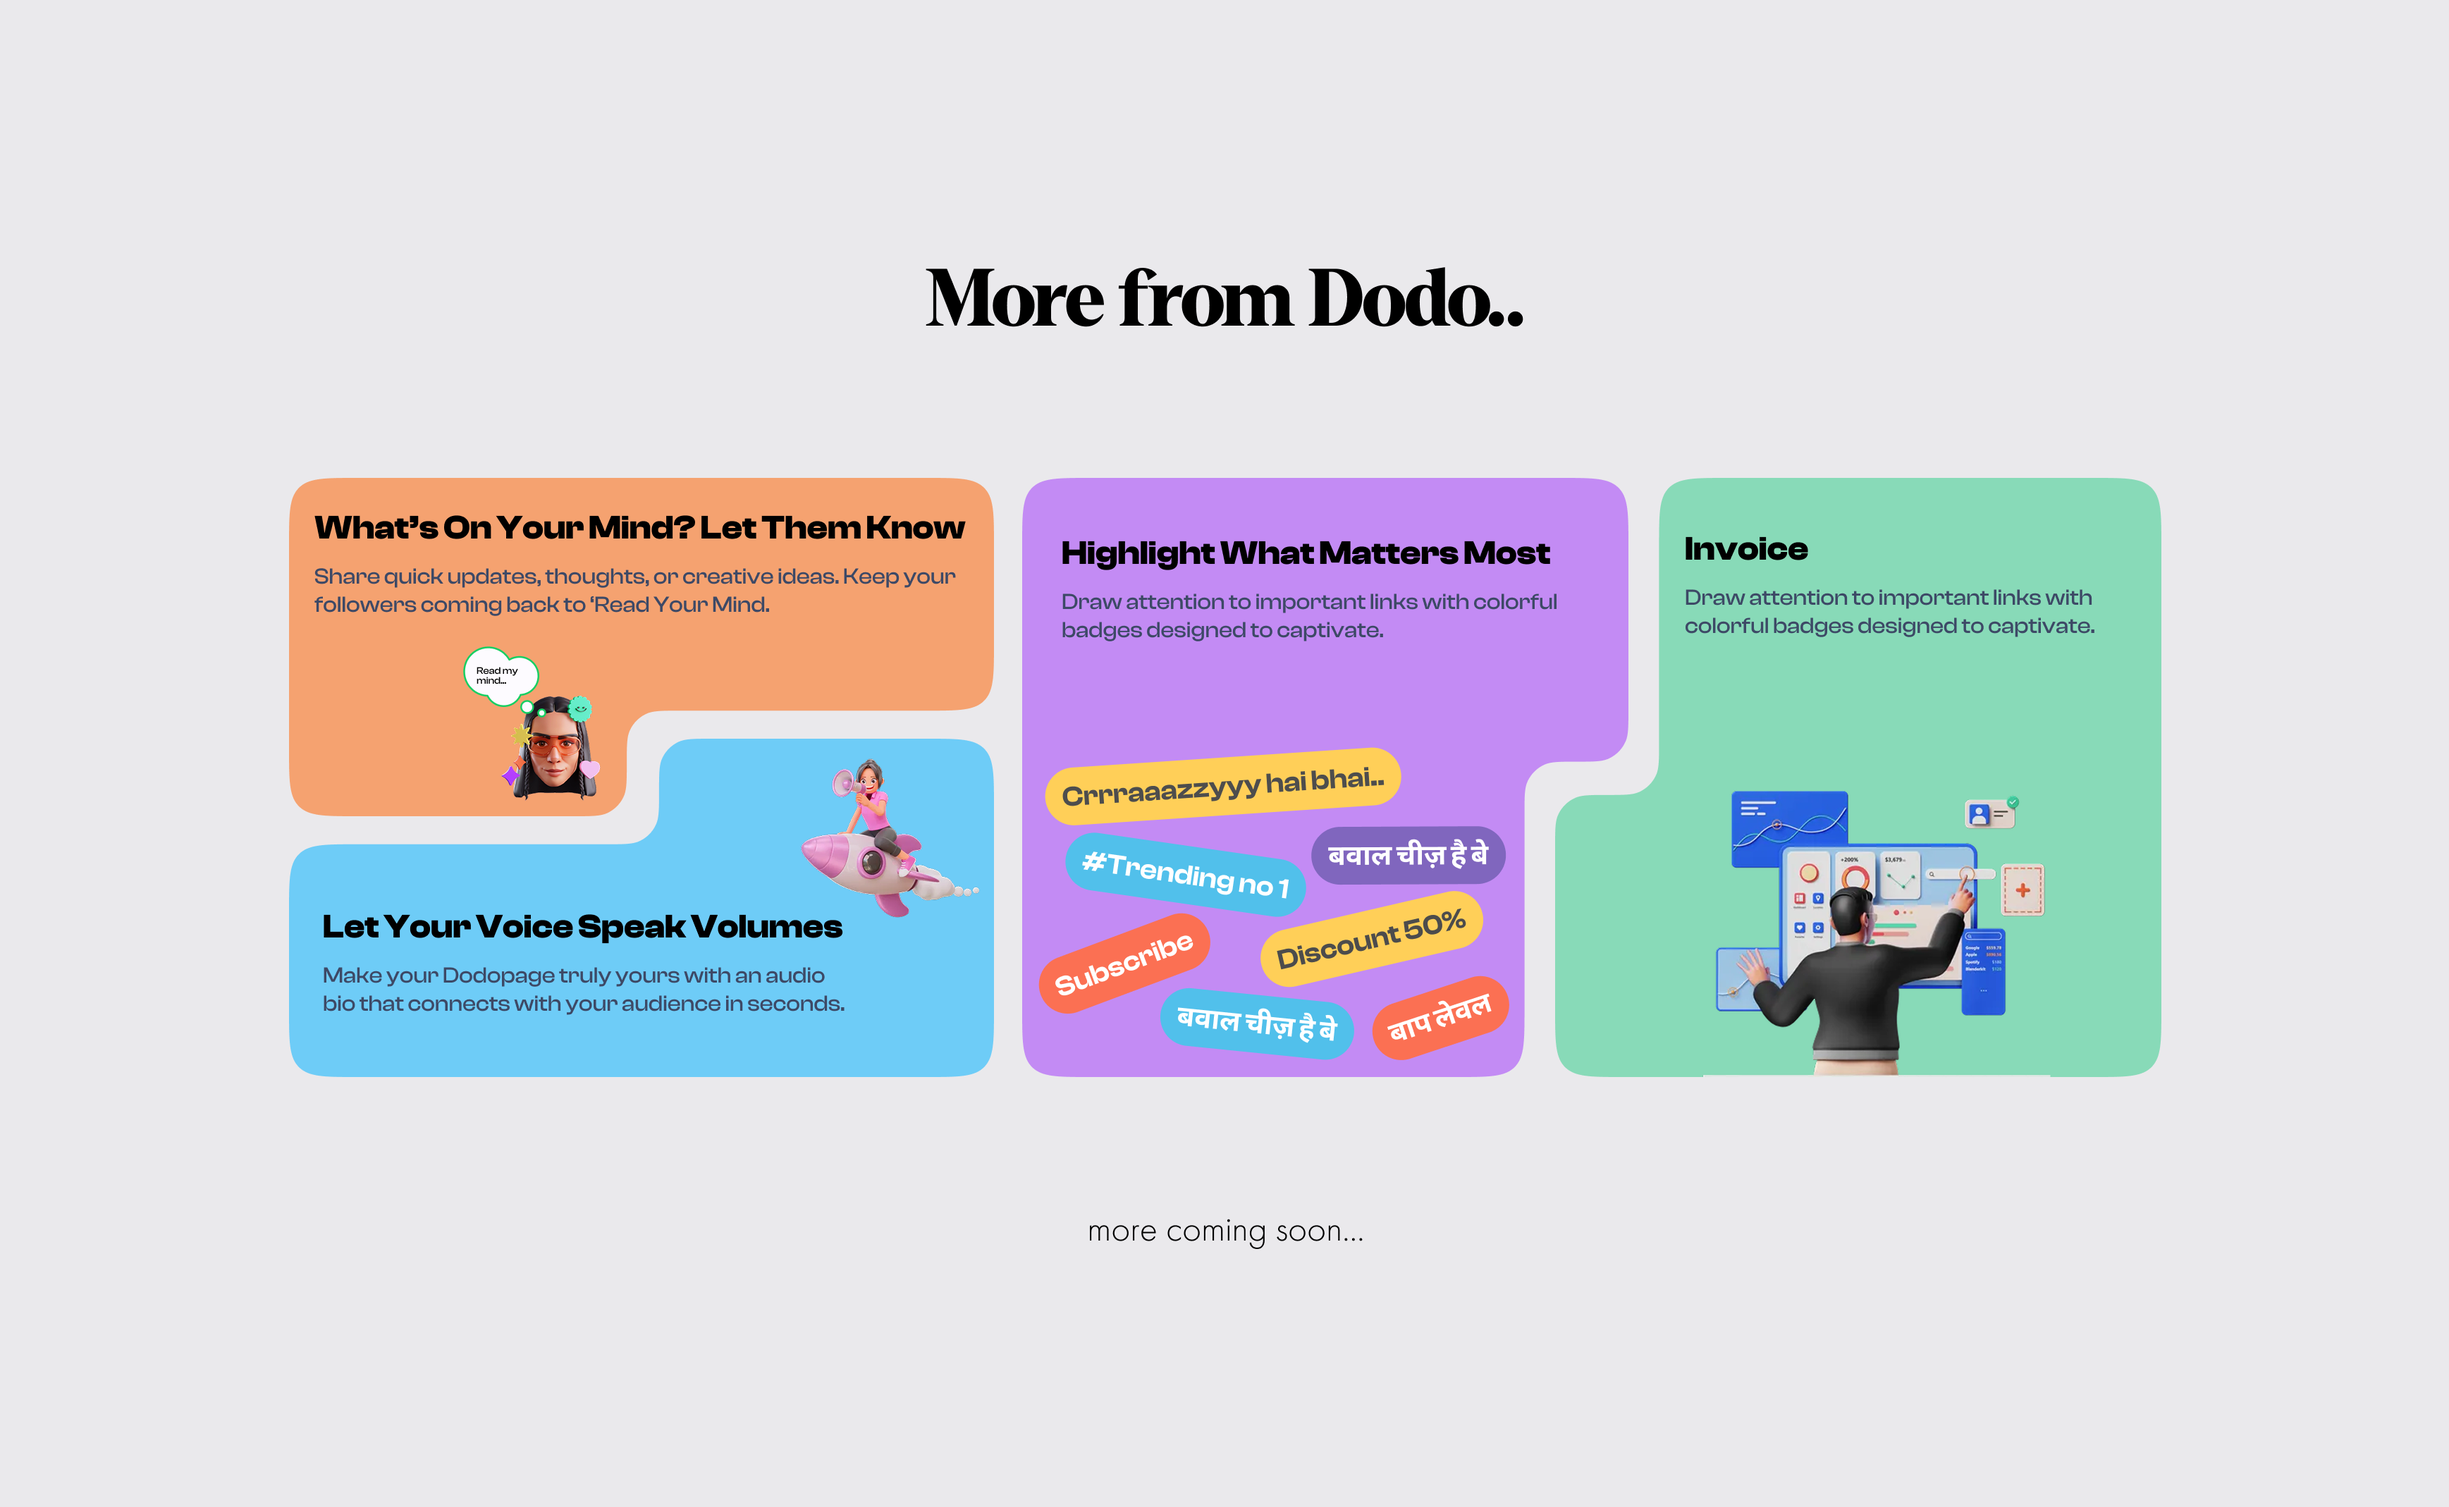
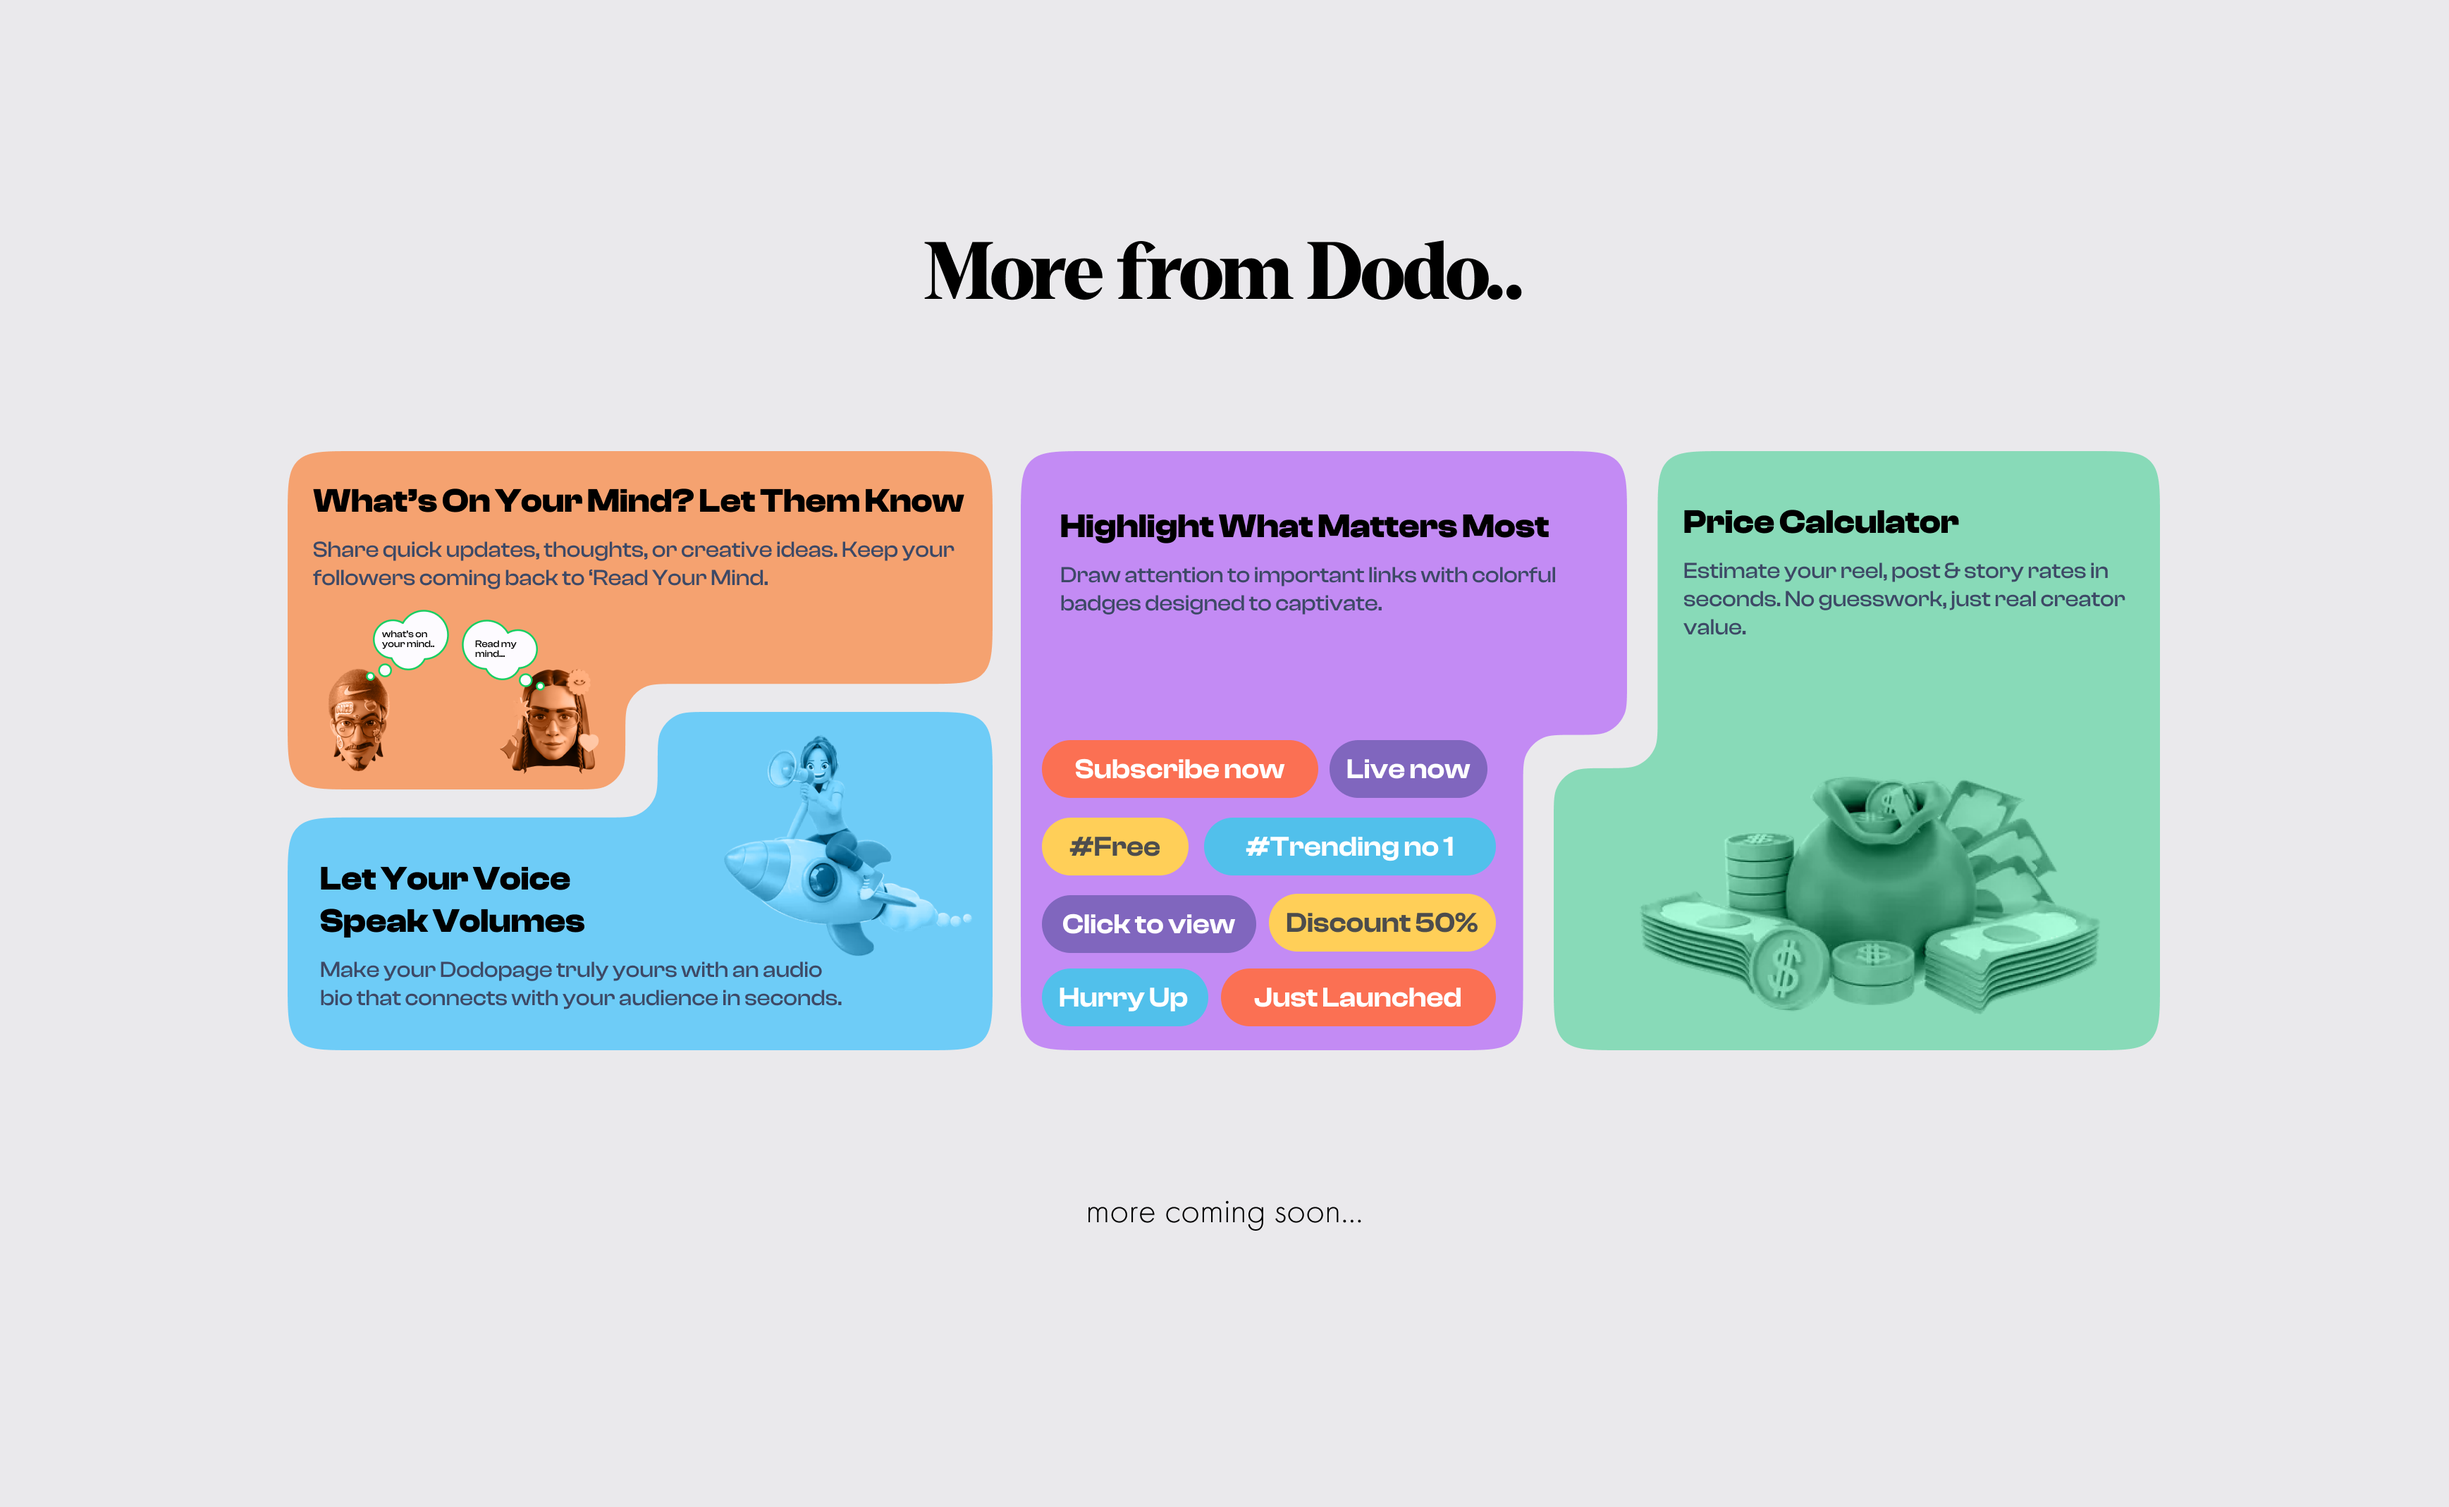
landing fix

Changed region(s): [[0.0933, 0.2778, 0.9016, 0.7409], [0.3731, 0.1543, 0.6218, 0.2161], [0.4352, 0.8026, 0.5596, 0.8335]]

diff --git a/app/for-brands/page.tsx b/app/for-brands/page.tsx
@@ -6,25 +6,30 @@ import styles from "./brands.module.css";
 import cx from "classnames";
 import NewButton from '@components/atoms/Button/NewButton';
 import { useRouter } from 'next/navigation';
+import ComingSoon from 'public/assets/comingSoon.png'
+import Image from 'next/image';
 
 const ForBrands = () => {
     const router = useRouter()
-    
+
     const handleNavigation = () => {
         router.push('/')
     }
     return (
-        <div className={cx(styles.bgGrid, "h-screen flex justify-center items-center")}>
+        <div className={"h-screen flex justify-center items-center"}>
+            <div className={styles.backgroundDots}></div>
             <FloatingBar />
 
             <div className='flex flex-col gap-4 justify-center items-center'>
 
-                <span className="bg-gradient-to-r from-[#F9CE34] via-[#EE2A7B] to-[#6228D7] bg-clip-text text-transparent leading-none text-4xl font-semibold" >
-                    Coming Soon
-                </span>
-                <button onClick={handleNavigation} className='bg-white boder rounded-full px-8 w-fit py-2 border-[1px] border-black text-brandPrimary font-semibold'>
-                    Go to Home
-                </button>
+
+                <Image src={ComingSoon} alt="Coming Soon" className='w-[150px] h-[150px]' />
+                <div className='flex flex-col gap-2 items-center'>
+                    <span className="bg-gradient-to-r  from-[#EE2A7B] to-[#6228D7] bg-clip-text text-transparent leading-none text-2xl font-semibold" >
+                        Coming Soon
+                    </span>
+                    <div> We are crafting something for you </div>
+                </div>
             </div>
         </div>
     )

diff --git a/app/for-brands/brands.module.css b/app/for-brands/brands.module.css
@@ -1,10 +1,16 @@
-
-.bgGrid {
-    background-image:
-      linear-gradient(to right, #E0DEE3 0.5px, transparent 0.5px),
-      linear-gradient(to bottom, #E0DEE3 0.5px, transparent 0.5px);
-    background-size: 24px 24px;
-    background-attachment: fixed;
-    background-repeat: repeat;
-    background-position: center;
-  }
+.backgroundDots {
+  width: 100%;
+  height: 100%;
+  position: fixed;
+  top: 0;
+  left: 0;
+  right: 0;
+  bottom: 0;
+  background-image: radial-gradient(circle, black 2px, transparent 2px);
+  background-size: 28px 28px; /* 6px dot + 32px gap */
+  background-repeat: repeat;
+  background-position: center;
+  z-index: -1;
+  opacity: 0.1;
+  background-color: #EAE9EC;
+}
